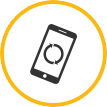
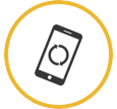
Iconos Pagar

Changed region(s): [[0.0, 0.0, 1.0, 1.0], [0.2804, 0.1963, 0.729, 0.8131]]

diff --git a/www/templates/pago.html b/www/templates/pago.html
@@ -56,7 +56,7 @@
                 </div>
                 <div class="col-xs-6 col-md-6">
                     <div class="col-xs-6 col-md-6 ds">
-                        <img src="images/icopa1.png" alt="..." title="...">
+                        <img src="images/boton_pagar.png" alt="..." title="...">
                     </div>
                     <div class="col-xs-6 col-md-6 un">
                         Pagar
